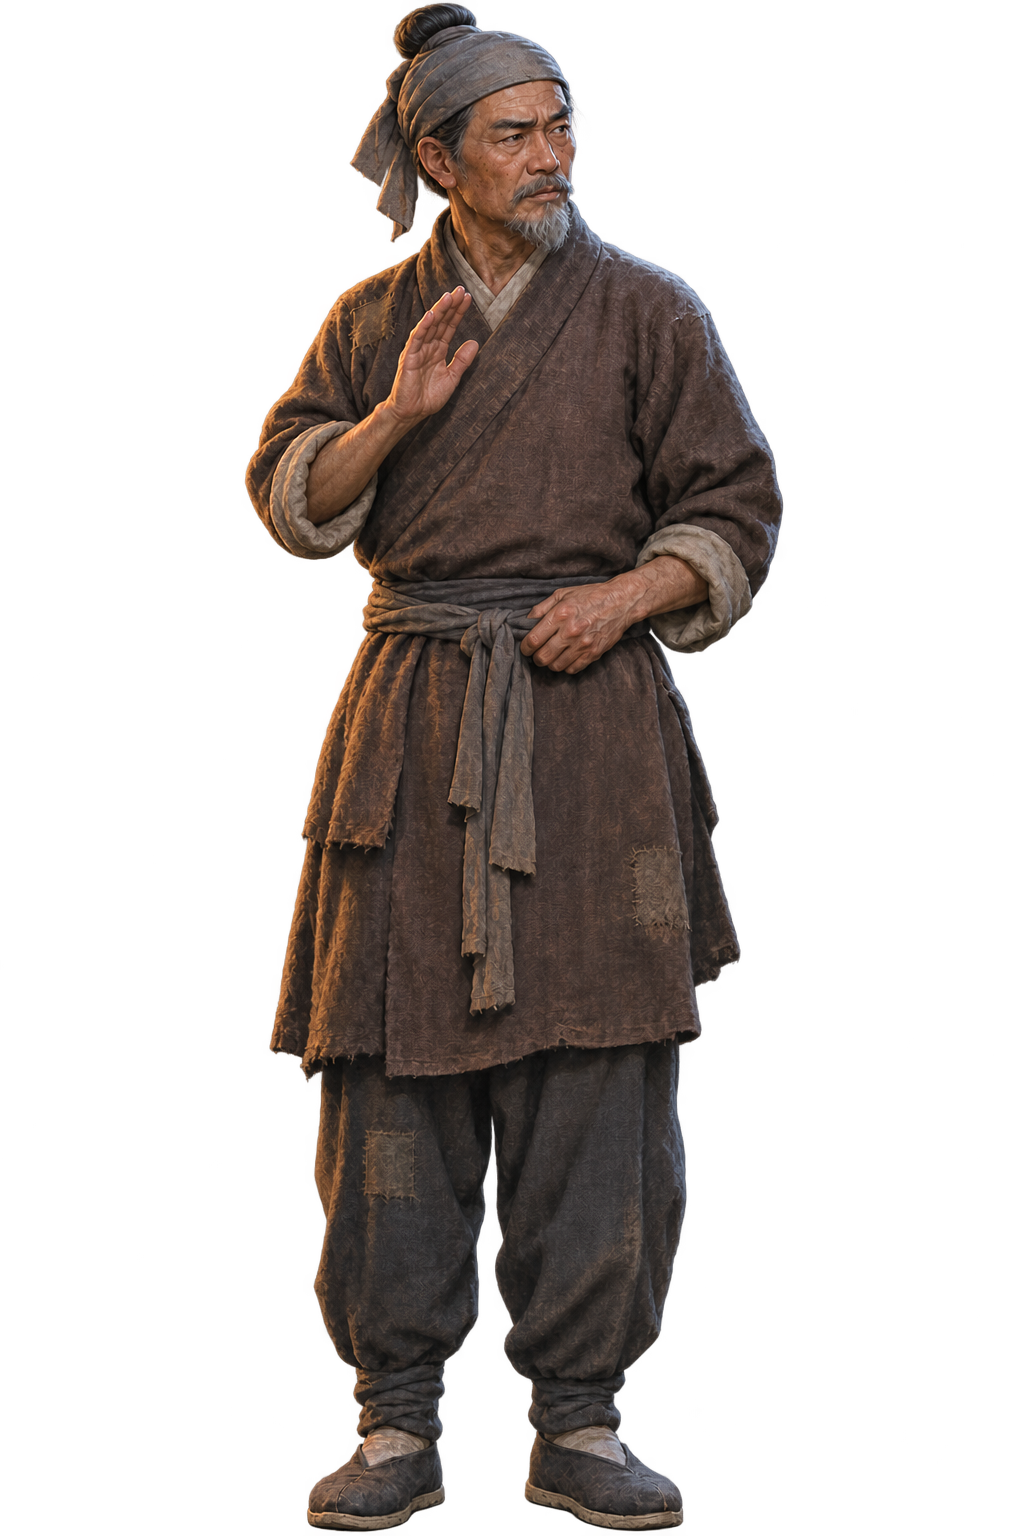
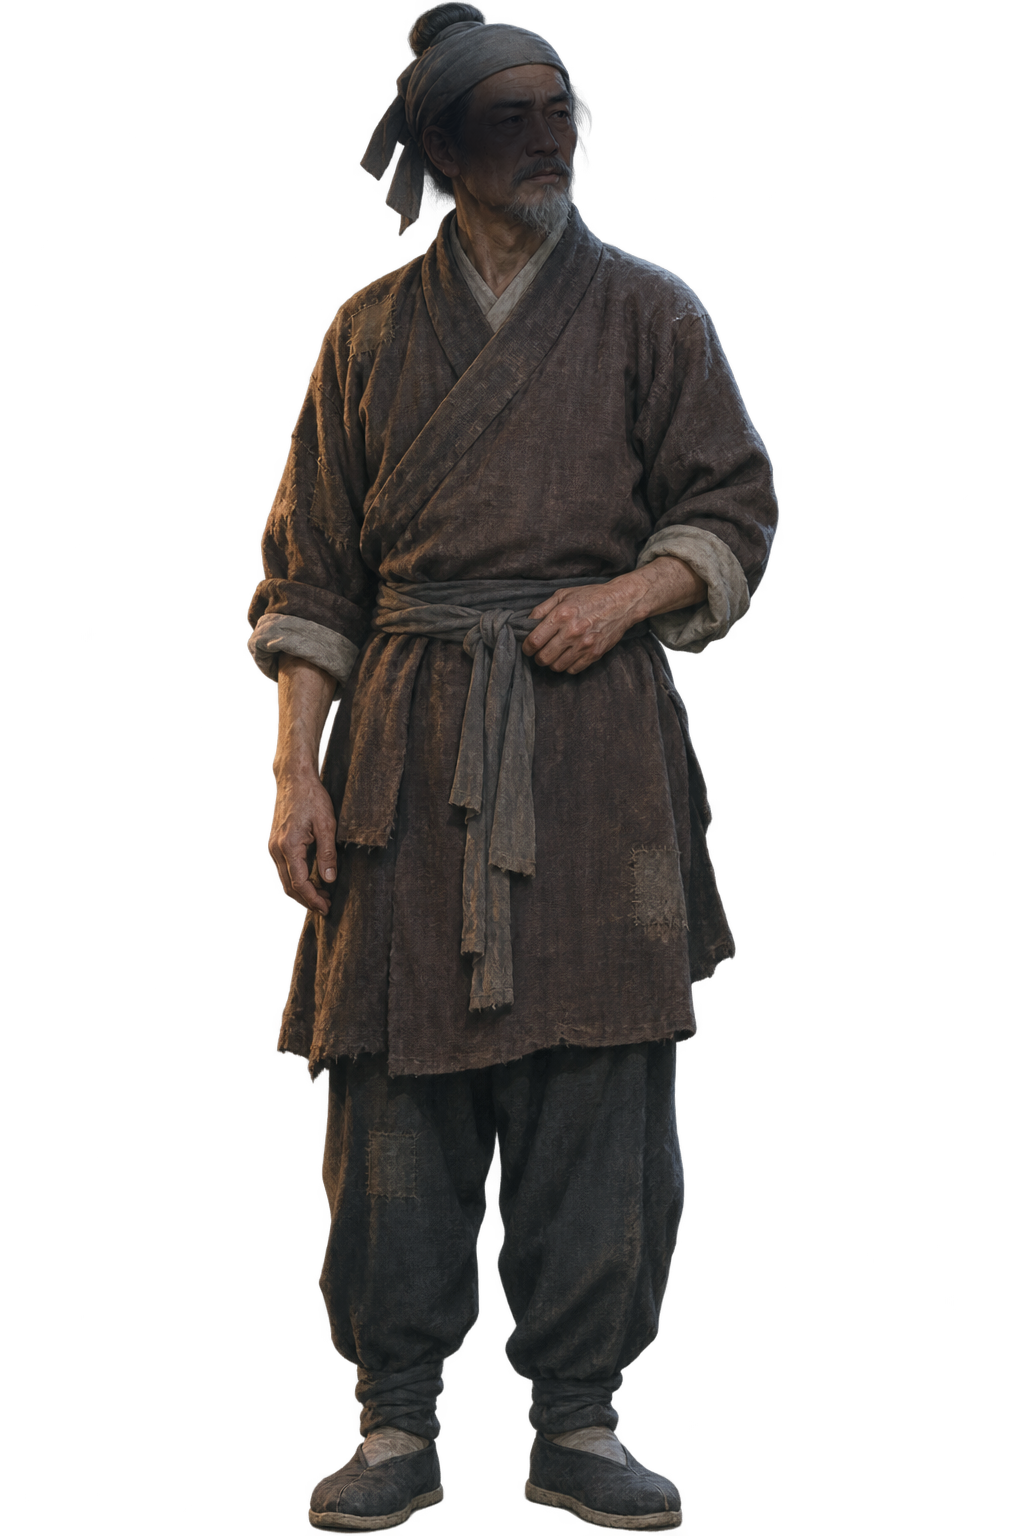
老军匠按台词切换神态，从一张立绘派生出三种
原来他在整段剧情里只有一张表情，无论劝人小心还是平常说话
都是同一副面孔，这也是「画面里不像有个人」的原因之一。

新增 artisan-mood：警觉 / 忧虑 / 沉思 / 常态四种，按台词关键词
匹配切换，并在场景立绘和对话过场里同时生效。

三种新神态是从中立立绘派生出来的，只做全局色温、明暗、饱和度
与羽化径向遮罩的变化，不重绘五官、不做局部形变——第一版试过
局部抬眉压嘴角，结果出现明显的方形接缝框，比不做还糟，已废弃。

所以它们严格来说是「同一张脸在不同情绪的光线下」，而不是
真正的肌肉动作差分。诚实、没有瑕疵，也足够让对话产生节奏变化；
若要真正的表情差分，仍需重画立绘。

校验：tsc 通过、98 项测试全过、构建成功；
实机确认台词含「小心」时切到 worried、无关键词时回到 neutral。

Changed region(s): [[0.2188, 0.0, 0.7812, 1.0], [0.6875, 0.2188, 0.7188, 0.25]]

diff --git a/src/campaign-ui.ts b/src/campaign-ui.ts
@@ -15,6 +15,7 @@ import {warrantView} from './seal-view';
 import './campaign.css';
 import {propArt,propSpot,clueSpot,clueDetail,sceneAsset,sceneMarks} from './scene-presentation';
 import {visualHintsEnabled,toggleVisualHints} from './visual-hints';
+import {ARTISAN_PORTRAIT,artisanMoodFor} from './artisan-mood';
 import './chapter-one.css';
 import './chapter-one-world.css';
 import './scene-polish.css';
@@ -90,7 +91,7 @@ export function createCampaign(options:{foley:Foley;onExit:()=>void;onPrologue:(
  if(s.chapter===4)files.push('chapters/c4-passage-close-v24.png','chapters/c4-shelter-v22.png');
  if(s.chapter===5)files.push('chapters/c5-hoist-close-v24.png');
  if(s.chapter===6)files.push('chapters/c6-towers-v21.png');
- if(s.chapter===3)files.push('chapters/c3-signal-cold-v25.png','chapters/c3-signal-close-v24.png');if(s.chapter===1)files.push(...['c1-s0-closed-v7','c1-s0-open-v7','c1-s2-revealed-v7','artisan-neutral-v7','artisan-alert-v7','c1-s1-covered-v10','hand-oil-lamp-v10','c1-s2-cleared-v10','c1-s1-drawer-open-v11','c1-s1-drawer-covered-v11','hand-oil-lamp-stored-v11','crate-body-v13','crate-open-v13','crate-bar-v13','c1-ledger-desk-v14','c1-worktable-v14','c1-departure-v14'].map(n=>'chapters/'+n+'.png'));for(const file of files){const img=new Image();img.src=A(file);}}
+ if(s.chapter===3)files.push('chapters/c3-signal-cold-v25.png','chapters/c3-signal-close-v24.png');if(s.chapter===1)files.push(...['c1-s0-closed-v7','c1-s0-open-v7','c1-s2-revealed-v7','artisan-neutral-v7','artisan-alert-v7','artisan-worried-v7','artisan-thoughtful-v7','c1-s1-covered-v10','hand-oil-lamp-v10','c1-s2-cleared-v10','c1-s1-drawer-open-v11','c1-s1-drawer-covered-v11','hand-oil-lamp-stored-v11','crate-body-v13','crate-open-v13','crate-bar-v13','c1-ledger-desk-v14','c1-worktable-v14','c1-departure-v14'].map(n=>'chapters/'+n+'.png'));for(const file of files){const img=new Image();img.src=A(file);}}
  function sceneImage(){const staged=riverBackdrop(s)||strongholdBackdrop(s);if(staged)return staged;if(s.chapter===1){if(s.scene===2)return 'chapters/c1-worktable-v14.png';if(s.scene===1){const drawer=s.world.includes('c1-drawer-open'),covered=s.world.includes('c1-patrol-done');return 'chapters/'+(drawer?(covered?'c1-s1-drawer-covered-v11.png':'c1-s1-drawer-open-v11.png'):(covered?'c1-s1-covered-v10.png':'c1-s1.png'));}if(s.scene===0&&s.solved.includes('c1-p3'))return 'chapters/c1-yard-bottom-v23.png';if(s.scene===0&&chapterComplete(s,1))return 'chapters/c1-departure-v14.png';if(s.scene===0)return 'chapters/'+(s.solved.includes('c1-p1')?'c1-s0-open-v7.png':'c1-s0-closed-v7.png');}return s.chapter>=2?fieldBackdrop(s):sceneAsset(s.chapter,s.scene);}
  function sceneLocked(index:number){return s.chapter===1?index===2&&!s.solved.includes('c1-p1'):!!fieldSceneBlock(s.chapter,index,s.solved);}
  function startStory(id:string){storyLine=0;open('story',id);if(id==='patrol'){options.foley.play('step');options.foley.play('step',.55);options.foley.play('step',1.1);options.foley.play('knock',1.65);}else if(id==='opened')options.foley.play('latch');else if(id==='ink')options.foley.storyCue();}
@@ -123,7 +124,7 @@ export function createCampaign(options:{foley:Foley;onExit:()=>void;onPrologue:(
   const sceneName=(i:number)=>strongholdLocation(s,i)||fieldSceneLabel(c.id,i,s.solved,c.scenes[i].name);
   const ps=c.puzzles.filter(p=>p.scene===s.scene&&!isScenePuzzle(p.id)&&fieldPuzzleVisible(p.id,s.solved)),cs=c.id===1?c.clues.filter(p=>p.scene===s.scene):[],items=c.props.filter(p=>p.scene===s.scene&&!s.bag.includes(p.id)&&!(p.requires||[]).some(id=>!s.solved.includes(id))&&!p.carried);
   return `<div class="camp-scene ${showPoints?'camp-observing':''} ${c.id===1?'c1-refined w-motion-'+sceneMotion+(chapterComplete(s,1)?' c1-ready-leave':''):''}" aria-label="${sceneName(s.scene)}"><img class="camp-background" src="${A(sceneImage())}" alt="${esc(c.id===1&&s.scene===0&&s.solved.includes('c1-p3')?'甲三箱的上盖扣着横木，底板已从下面抽出。':c.id===1&&s.scene===0&&s.solved.includes('c1-p1')?'甲三货箱已经打开，箱中空无军械。':c.id===1&&s.scene===2&&s.solved.includes('c1-p4')?'工作台上展开旧封签与小油灯，纸下旧字已经显现。':c.id===4&&s.scene===2&&s.solved.includes('c4-p6')?'陈九成坐在旧道外的石凳上，伤臂已包好，门下撑着支木。':riverObservation(s)||strongholdObservation(s)||c.scenes[s.scene].description)}" fetchpriority="high"><div class="camp-shade"></div>${c.id===1?sceneMarks(c.id,s.scene):fieldSceneDecor(s)}${c.id===1&&s.scene===0&&sceneMotion==='open'?`<img class="w-opening-cover" src="${A('chapters/c1-s0-closed-v7.png')}" alt="">`:''}
-   ${c.id===1&&s.scene===0?'<button class="c1-artisan-spot" data-c="artisan" aria-label="老军匠"><img src="'+A('chapters/artisan-neutral-v7.png')+'" alt="" draggable="false"><i class="camp-point" aria-hidden="true"></i></button>':''}
+   ${c.id===1&&s.scene===0?'<button class="c1-artisan-spot" data-c="artisan" aria-label="老军匠"><img src="'+A(ARTISAN_PORTRAIT[artisanMoodFor('老军匠', s.world.includes('c1-patrol-active')?'门外还有人':s.solved.includes('c1-p1')?'':'')]) +'" alt="" draggable="false"><i class="camp-point" aria-hidden="true"></i></button>':''}
    ${c.id===1?firstChapterScene(s):c.id<=3?riverScene(s,riverLine):strongholdScene(s,riverLine)}
    <header class="camp-location"><span>${numerals[c.id]}</span><div><small>${c.time} · ${c.title}</small><h1>${sceneName(s.scene)}</h1></div></header>
    <nav class="camp-tools" aria-label="调查工具"><button data-c="journal" aria-label="陆昭手记">${icon('book')}<span>手记</span></button><button data-c="points" aria-label="察看互动位置" aria-pressed="${showPoints}">${icon('eye')}</button><button data-c="hint" aria-label="借一点提示">${icon('candle')}</button><button data-c="sound" aria-label="环境声${options.foley.enabled?'开':'关'}">${icon(options.foley.enabled?'sound':'muted')}</button><button data-c="picker" aria-label="篇章选择">${icon('menu')}</button></nav>
@@ -170,7 +171,7 @@ export function createCampaign(options:{foley:Foley;onExit:()=>void;onPrologue:(
  function sequenceHtml(){const c=chapter(),intro=modal?.type==='intro',lines=intro?c.intro:c.id===1?firstEnding(s):chapterOutro(s,c.outro);return `<section class="camp-sequence" role="dialog" aria-modal="true" aria-label="${intro?'关卡开场':'关卡结尾'}"><img src="${A(c.id===4&&!intro?'chapters/c4-shelter-v22.png':sceneAsset(c.id,intro?0:2))}" alt=""><div class="camp-sequence-shade"></div><button class="camp-skip" data-c="skip-sequence">跳过 ${icon('arrow')}</button><div><span>第${['','一','二','三','四','五','六'][c.id]}关 · ${intro?c.title:'查毕'}</span><h2>${intro?c.title:chapterComplete(s,6)&&c.id===6?'生还者的姓名':c.title+' · 终'}</h2><p>${lines[sequenceLine]}</p><button class="camp-action" data-c="next-sequence">${sequenceLine===lines.length-1?intro?'开始调查':c.id<6?'前往下一关':'查看结局':'下一句'} ${icon('arrow')}</button><small>${sequenceLine+1} / ${lines.length}</small></div></section>`;}
  function endingHtml(){return `<div class="camp-final"><span class="camp-eyebrow">六关终 · 孤城夜火</span><h2>天亮以后，<br>活着的人要回营。</h2><p>军械的去向、被换的回文、东门的假令，<br>终于被原件与活证接在了一起。</p><div class="camp-corrected-name"><span>甲字哨 · 十七 · 陆昭</span><del>阵亡</del><b>生还</b></div><p>这个夜晚暂告结束。已解谜题、原始文书和各关进度仍可回看。</p><div>${button('回看六关调查','picker','camp-action')}${button('返回标题','exit','camp-text-button')}</div></div>`;}
  function artisanHtml(){const keys:(keyof typeof ARTISAN_TOPICS)[]=[s.solved.includes('c1-p1')?'crate':'guide',...(s.solved.includes('c1-p2')?['ledger' as const]:[]),...(s.solved.includes('c1-p5')?['ink' as const]:[]),...(s.solved.includes('c1-p6')?['track' as const]:[]),'road'];return `<div class="c1-artisan-conversation"><img src="${A('chapters/artisan-neutral-v7.png')}" alt="守在门边的老军匠"><div><span class="camp-eyebrow">门边 · 老军匠</span><h3>${chapterComplete(s,1)?'门我给你留着。':'灯别点得太亮。'}</h3><p>${chapterComplete(s,1)?'他把门推开一道缝，侧耳听过巷里的动静，才向你点了点头。':s.solved.includes('c1-p1')?'他蹲下看了看空箱，又朝门外望了一眼。':'他听了听门外，又把目光落回那只甲三号箱。'}</p>${keys.map(id=>`<button class="c1-dialogue-choice" data-c="talk:${id}" aria-label="${esc(ARTISAN_TOPICS[id].question)}">${ARTISAN_TOPICS[id].question}</button>`).join('')}${button('我再查查。','close','camp-text-button')}</div></div>`;}
- function storyHtml(){const lines=storyLines(),line=lines[Math.min(storyLine,lines.length-1)],id=modal?.id||'',alert=id==='patrol',title=id==='opened'?'箱盖之下':id==='ink'?'灯下旧字':alert?'屏息':id==='departure'?'去西渡':'门边低语';return `<section class="c1-story ${alert?'patrol-story':''}" role="dialog" aria-modal="true" aria-label="${title}"><img class="c1-story-background" src="${A(sceneImage())}" alt=""><div class="c1-story-shade"></div>${alert?'<div class="c1-patrol-light" aria-hidden="true"></div>':''}<img class="c1-story-portrait ${line[0]==='老军匠'?'speaking':''}" src="${A('chapters/artisan-'+(alert?'alert':'neutral')+'-v7.png')}" alt="老军匠${alert?'抬手示意安静':''}"><button class="camp-skip" data-c="story-skip">略过这段 ${icon('arrow')}</button><div class="c1-story-caption"><span>${line[0]}</span><p>${line[1]}</p><div><small>${storyLine+1} / ${lines.length}</small><button class="camp-action" data-c="story-next">${storyLine===lines.length-1?id==='departure'?'收好原件，出发':id.startsWith('talk-')?'再问一句':'继续调查':'下一句'} ${icon('arrow')}</button></div></div></section>`;}
+ function storyHtml(){const lines=storyLines(),line=lines[Math.min(storyLine,lines.length-1)],id=modal?.id||'',alert=id==='patrol',title=id==='opened'?'箱盖之下':id==='ink'?'灯下旧字':alert?'屏息':id==='departure'?'去西渡':'门边低语';return `<section class="c1-story ${alert?'patrol-story':''}" role="dialog" aria-modal="true" aria-label="${title}"><img class="c1-story-background" src="${A(sceneImage())}" alt=""><div class="c1-story-shade"></div>${alert?'<div class="c1-patrol-light" aria-hidden="true"></div>':''}<img class="c1-story-portrait ${line[0]==='老军匠'?'speaking':''}" src="${A(ARTISAN_PORTRAIT[artisanMoodFor(line[0],line[1])])}" alt="老军匠${artisanMoodFor(line[0],line[1])==='alert'?'抬手示意安静':''}"><button class="camp-skip" data-c="story-skip">略过这段 ${icon('arrow')}</button><div class="c1-story-caption"><span>${line[0]}</span><p>${line[1]}</p><div><small>${storyLine+1} / ${lines.length}</small><button class="camp-action" data-c="story-next">${storyLine===lines.length-1?id==='departure'?'收好原件，出发':id.startsWith('talk-')?'再问一句':'继续调查':'下一句'} ${icon('arrow')}</button></div></div></section>`;}
  function replayHtml(){return `<div class="camp-summary c1-replay"><span class="camp-eyebrow">重访军器库</span><h3>从前院重新查起</h3><p>这次将从关卡开场重新收集与解谜。当前第一关记录会先备份，序章和其他五关进度保留。</p>${button('备份记录，重玩第一关','c1-replay-confirm','camp-action')}${button('继续现有调查','close','camp-text-button')}</div>`;}
  function hasReplayBackup(){try{return !!localStorage.getItem(replayBackupKey);}catch{return false;}}
  function momentHtml(id:string){const event=FIELD_MOMENTS[id];if(!event)return '';return `<section class="field-moment moment-${event.theme} moment-${id}" role="dialog" aria-modal="true" aria-label="${event.title}"><div class="field-moment-room"><img class="field-moment-image" src="${A(event.image)}" alt="${event.title}"><span class="field-moment-title">${event.title}</span>${id==='c1-p3'?bottomBar(true):''}${workshopMoment(id)}${id==='c3-p5'?'<i class="v24-east-window on"></i>':''}${id==='c5-p4'?gateBeam([24,100,1,2]):''}${event.theme==='signal'?'<i class="v21-window east"></i><i class="v21-window west"></i>':''}${event.theme==='dawn'?'<div class="v21-return-slip">甲字哨 · 十七<strong>陆昭 <del>阵亡</del></strong><span>生还 · 陈九成亲见</span></div>':''}<div class="field-moment-caption"><small>${event.speaker||'城墙之上'}</small><p>${event.line}</p><span>${event.after}</span><button data-c="moment-close">继续 →</button></div></div></section>`;}

diff --git a/src/artisan-mood.ts b/src/artisan-mood.ts
@@ -1,0 +1,36 @@
+/**
+ * 老军匠的表情差分。
+ *
+ * 立绘只有一张原图，另外三张是从它派生出来的：
+ * 警觉 / 忧虑 / 沉思。派生方式只做全局光影与色温变化，
+ * 不重绘五官，所以不会有局部接缝，也不假装肌肉动作——
+ * 玩家看到的是「同一张脸在不同情绪的光线下」。
+ */
+
+export type ArtisanMood = 'neutral' | 'alert' | 'worried' | 'thoughtful';
+
+export const ARTISAN_PORTRAIT: Record<ArtisanMood, string> = {
+  neutral: 'chapters/artisan-neutral-v7.png',
+  alert: 'chapters/artisan-alert-v7.png',
+  worried: 'chapters/artisan-worried-v7.png',
+  thoughtful: 'chapters/artisan-thoughtful-v7.png',
+};
+
+/** 巡查到来时他抬手示意安静，用最紧绷的那一张。 */
+export const ARTISAN_ALERT_LINE = '老军匠';
+
+/**
+ * 依据台词内容判断该摆什么表情。
+ * 顺序有意义：先判断最紧急的，再判断忧虑，最后才是日常。
+ */
+export function artisanMoodFor(speaker: string, line: string): ArtisanMood {
+  if (speaker !== ARTISAN_ALERT_LINE) return 'neutral';
+  const text = line || '';
+  // 紧张、制止、门外有动静
+  if (/别出声|别点灯|脚步|来人|搜|藏|快走|低声|门外|听见/.test(text)) return 'alert';
+  // 担心陆昭、担心货、担心这条路走不通
+  if (/危险|怕|小心|当心|连累|回不来|死|出事|不妥|麻烦/.test(text)) return 'worried';
+  // 在回忆、在琢磨、话说得慢
+  if (/想来|记得|那年|恐怕|也许|未必|说不好|当年|早先/.test(text)) return 'thoughtful';
+  return 'neutral';
+}
